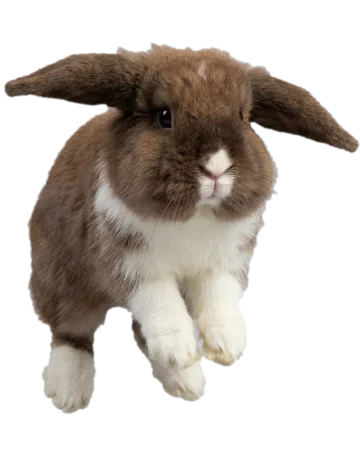
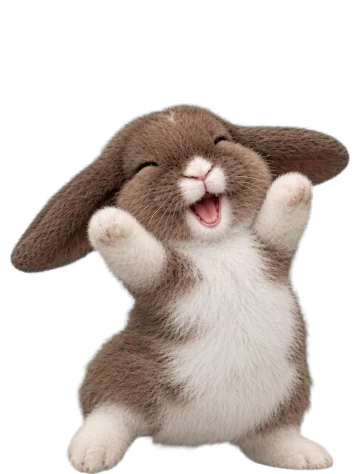
Hint Bunny: new happy, sad, thinking and angry poses from the supplied sprite sheet

diff --git a/src/ui/bunny.ts b/src/ui/bunny.ts
@@ -19,7 +19,7 @@ export type BunnyEvent =
   | 'scare';
 
 /** Photo poses (assets/bunny/<pose>.webp, all cropped to the same box so swaps don't jump). */
-type Pose = 'idle' | 'happy' | 'sad' | 'alert' | 'aside' | 'shock' | 'love';
+type Pose = 'idle' | 'happy' | 'sad' | 'thinking' | 'angry' | 'alert' | 'aside' | 'shock' | 'love';
 
 const POSE_URLS = import.meta.glob<string>('../assets/bunny/*.webp', { eager: true, query: '?url', import: 'default' });
 const poseUrl = (p: Pose) => POSE_URLS[`../assets/bunny/${p}.webp`];
@@ -29,9 +29,11 @@ const FALLBACK: Record<Pose, Pose> = {
   idle: 'idle',
   happy: 'idle',
   sad: 'idle',
-  alert: 'idle',
+  thinking: 'idle',
+  angry: 'sad',
+  alert: 'thinking',
   aside: 'idle',
-  shock: 'alert',
+  shock: 'angry',
   love: 'happy',
 };
 const resolvePose = (p: Pose): Pose => (poseUrl(p) ? p : p === 'idle' ? p : resolvePose(FALLBACK[p]));
@@ -95,7 +97,7 @@ const POSE: Record<BunnyEvent, Pose> = {
   complete: 'happy',
   deal: 'aside',
   undo: 'sad',
-  invalid: 'shock',
+  invalid: 'angry',
   stuck: 'sad',
   win: 'happy',
   scare: 'shock',
@@ -154,7 +156,7 @@ export class Bunny {
       e.stopPropagation();
       if (!this.enabled) return;
       this.resetIdle();
-      this.gesture('nod', 900, 'love'); // a hint (or a shrug) takes over in a moment
+      this.gesture('nod', 900, 'thinking'); // a hint (or a shrug) takes over in a moment
       this.onAskHint();
     });
   }
@@ -200,7 +202,7 @@ export class Bunny {
     this.busyUntil = performance.now() + 3200;
     this.walkTo(target.from);
     this.later(380, () => {
-      this.gesture('perk', 1000, 'alert');
+      this.gesture('perk', 1000, 'thinking');
       this.pop(kind === 'deal' ? 'hintDeal' : 'hint');
     });
     if (kind === 'move' && target.to !== undefined) {
